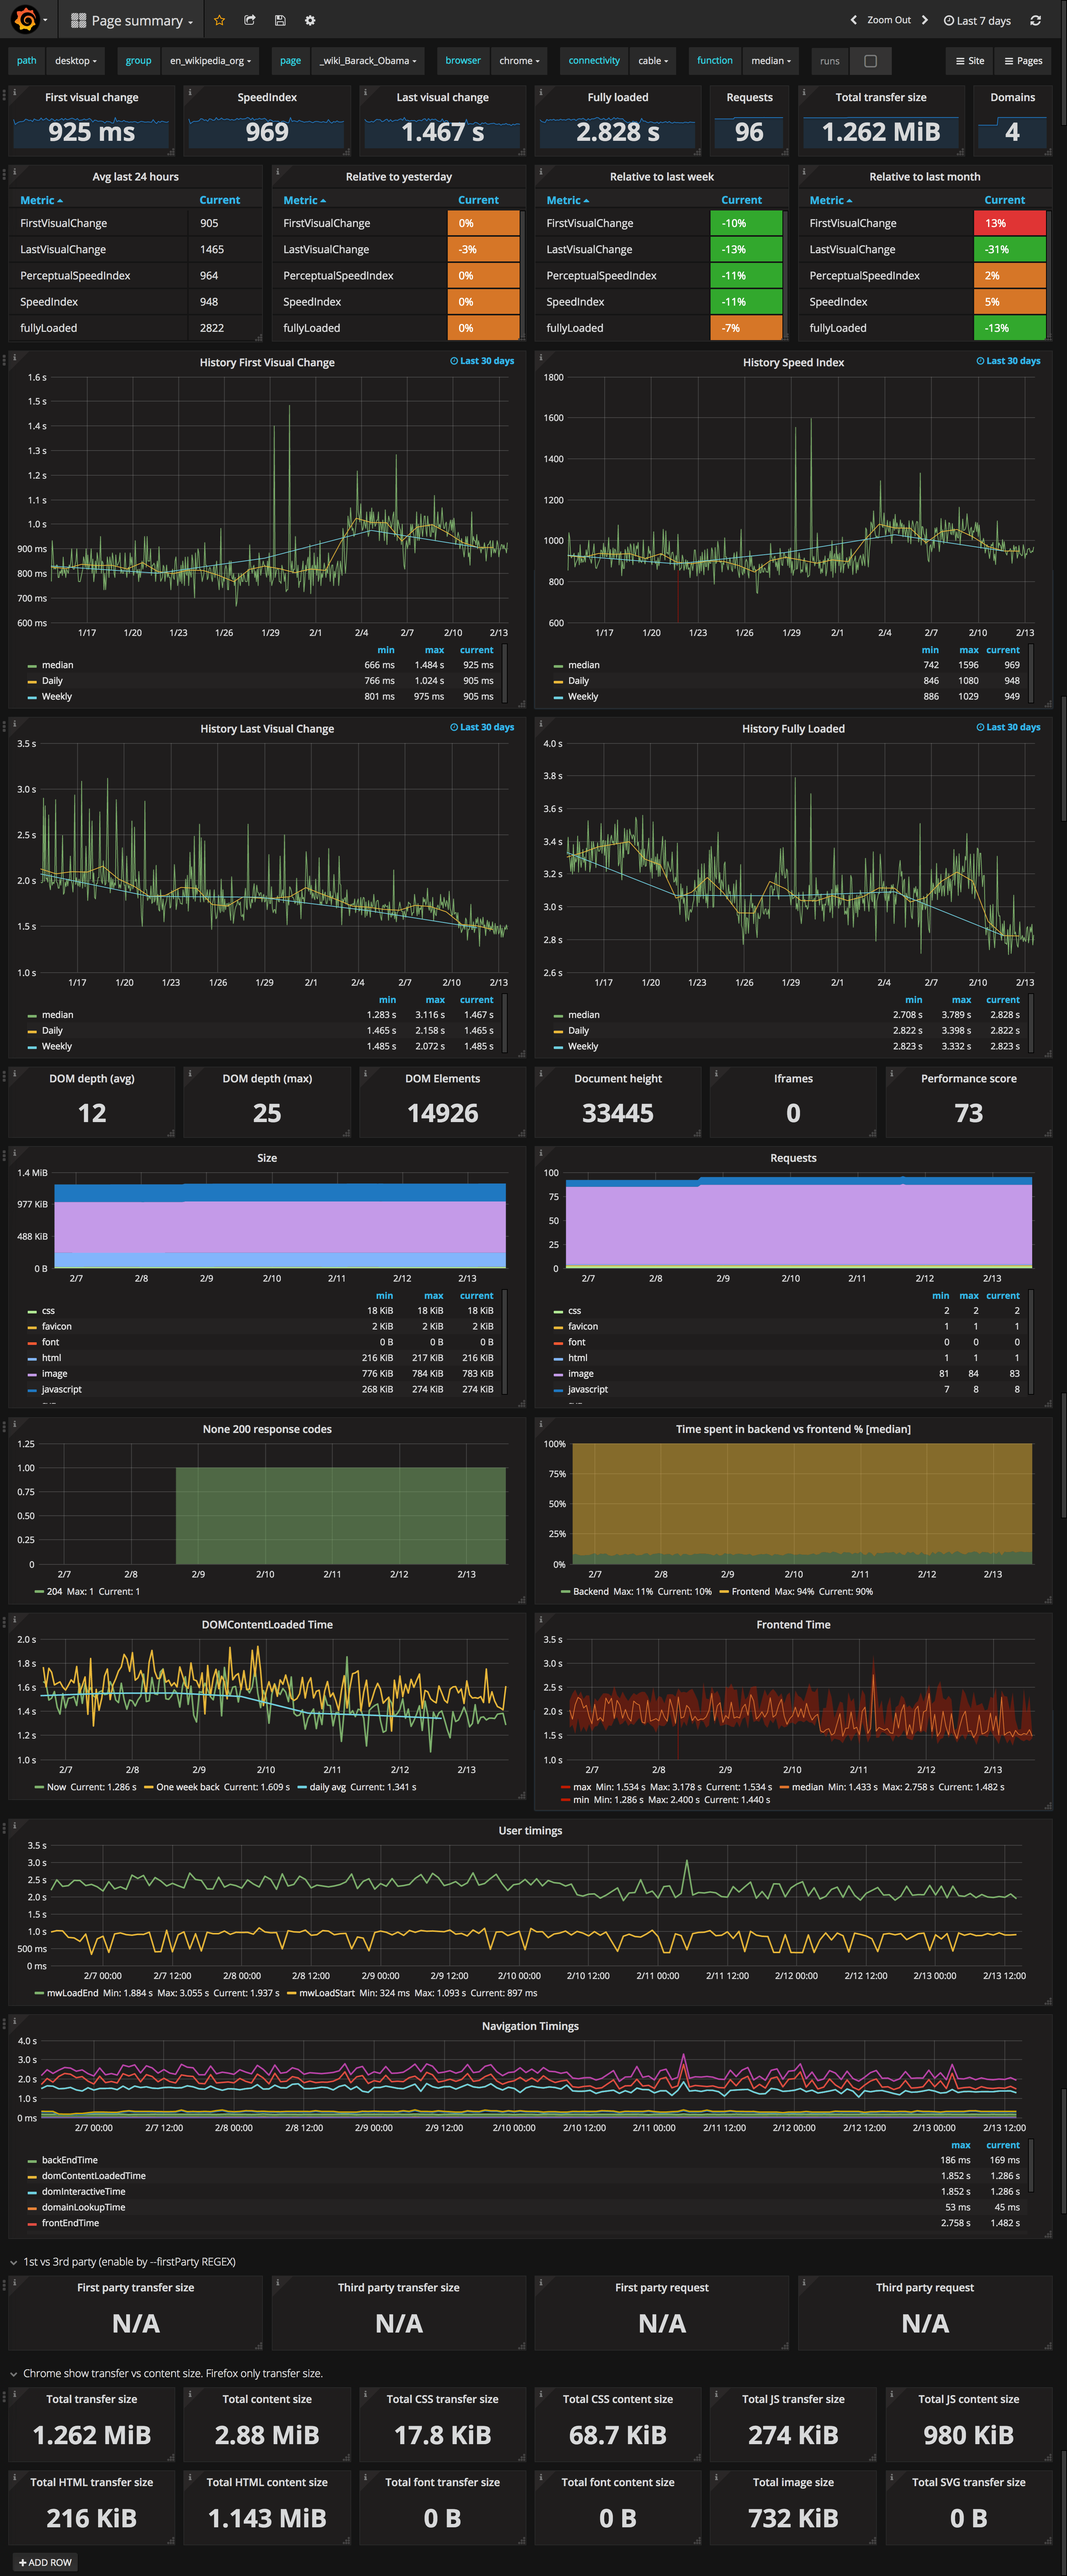
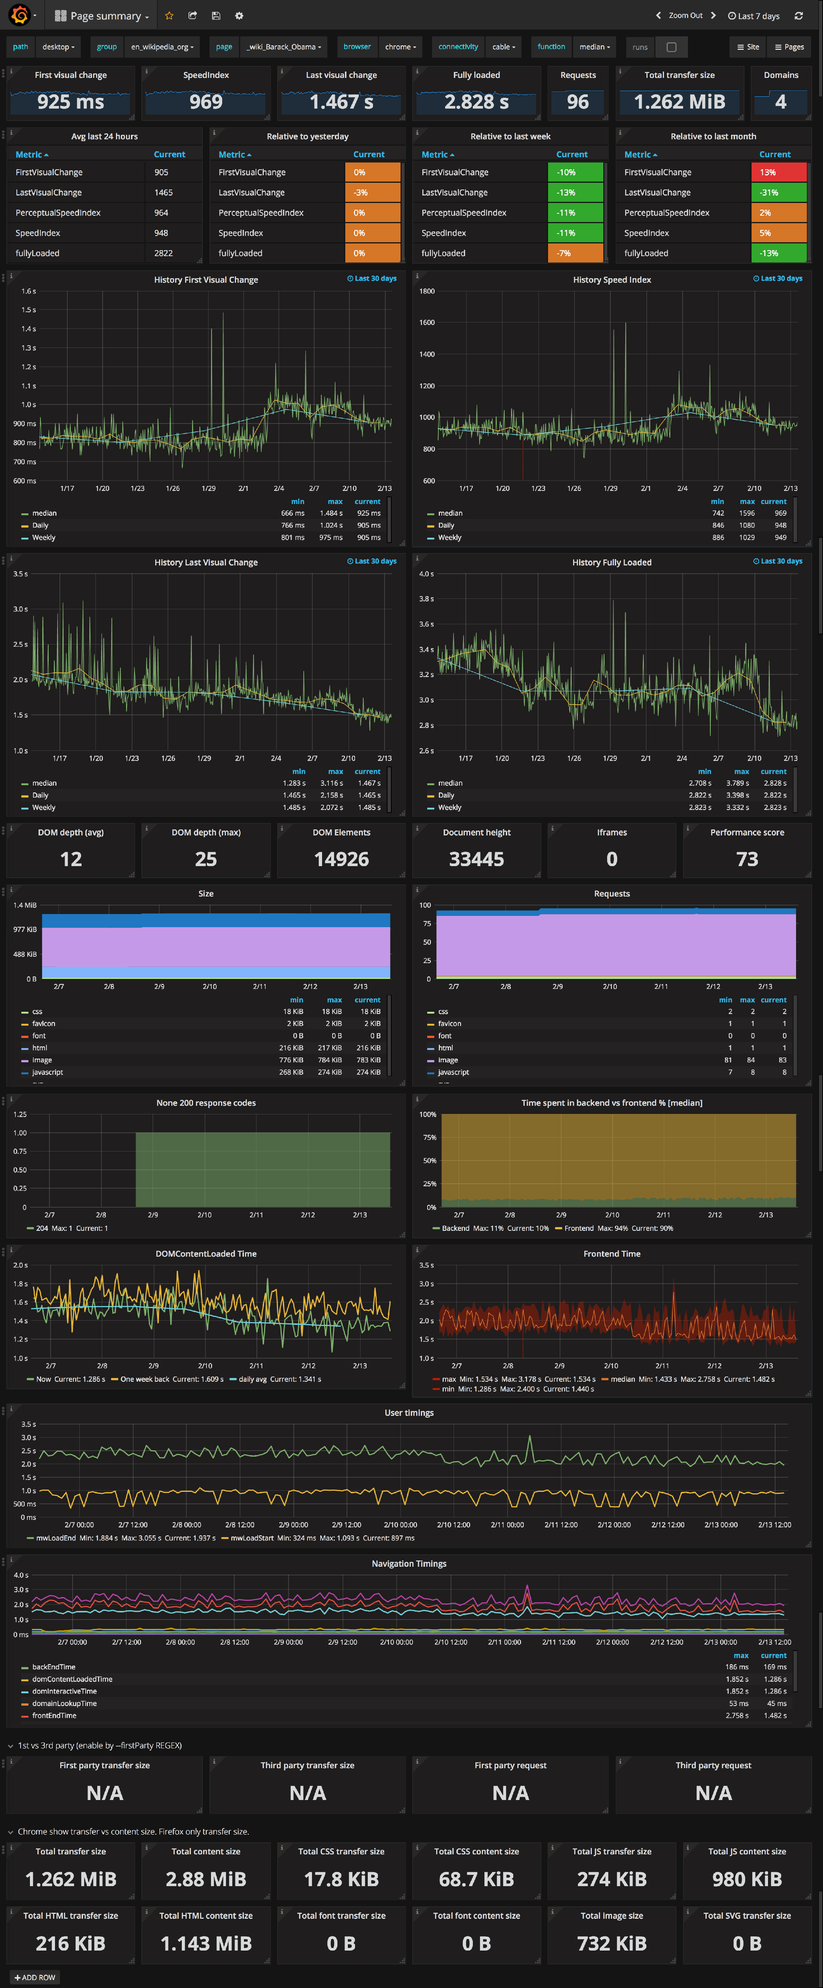
new Grafana screenshots

diff --git a/docs/documentation/sitespeed.io/performance-dashboard/index.md b/docs/documentation/sitespeed.io/performance-dashboard/index.md
@@ -76,14 +76,14 @@ How much impact to 3rd party code has on your page? To get this up and running y
 ## WebPageTest page summary
 Have we told you that we love WebPageTest? Yes we have and here are a default WebPagTest page summary where you can look at results for individual URLs.
 
-[![WebPageTest page summary]({{site.baseurl}}/img/webpagetestPageSummary.png)](https://dashboard.sitespeed.io/dashboard/db/webpagetest-page-summary)
+[![WebPageTest page summary]({{site.baseurl}}/img/webpagetestPageSummary2.png)](https://dashboard.sitespeed.io/dashboard/db/webpagetest-page-summary)
 {: .img-thumbnail}
 
 
 ## WebPageTest site summary
 And then also for all tested pages of a site.
 
-[![WebPageTest site summary]({{site.baseurl}}/img/webpagetestSiteSummary.png)](https://dashboard.sitespeed.io/dashboard/db/webpagetest-site-summary)
+[![WebPageTest site summary]({{site.baseurl}}/img/webpagetestSiteSummary2.png)](https://dashboard.sitespeed.io/dashboard/db/webpagetest-site-summary)
 {: .img-thumbnail}
 
 ## Whatever you want
